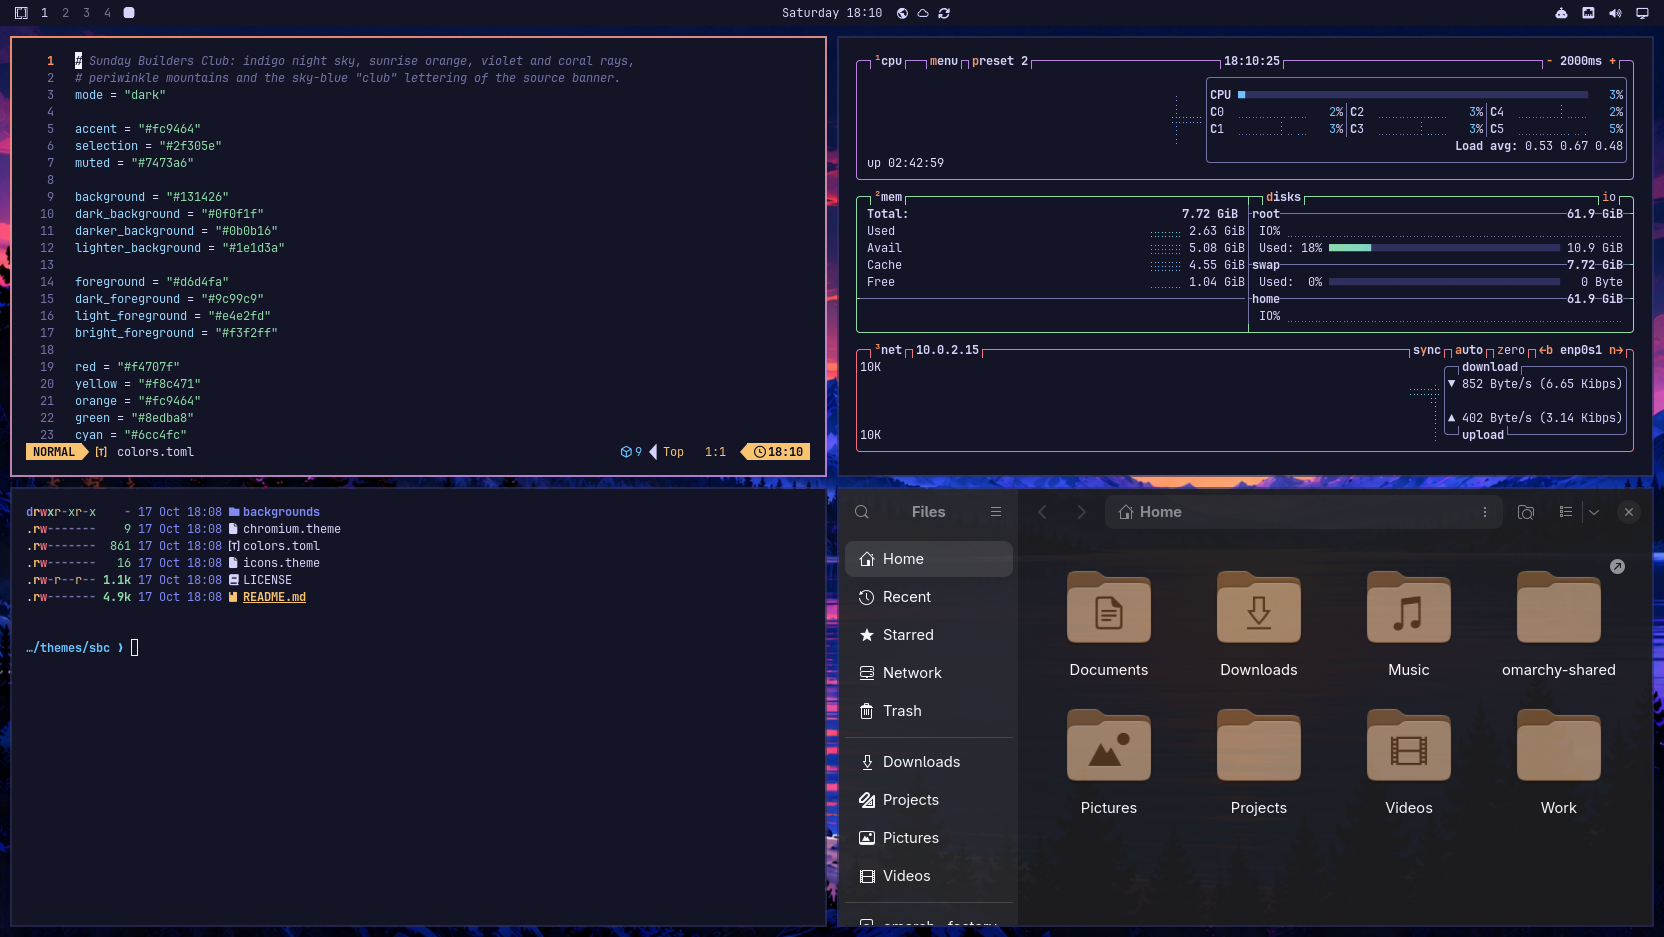
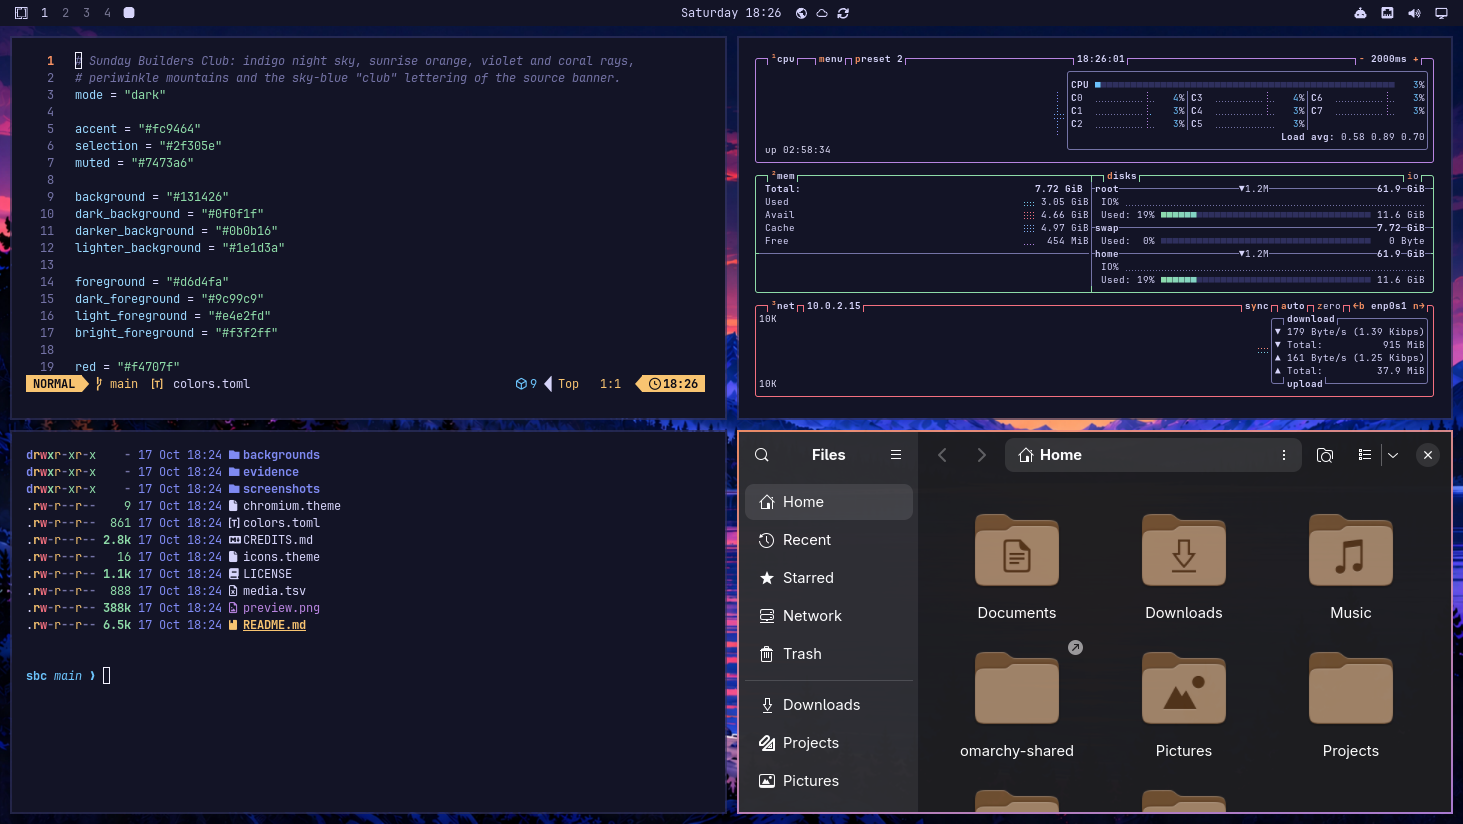
Retake screenshots with the sharpened wallpapers
Both captures come from the theme installed from this repository with
omarchy theme install; evidence/local-2.manifest records the implementation
files they and the following checks apply to.

Changed region(s): [[0.0, 0.0, 1.0, 1.0], [0.0, 0.8192, 0.0308, 0.8495]]

diff --git a/README.md b/README.md
@@ -19,7 +19,7 @@ sky-blue "club" lettering.
 
 ![SBC on Omarchy with Neovim, btop, a terminal and Files](preview.png)
 
-*SBC on Omarchy with Neovim, btop, a terminal and Files, 1664×937*
+*SBC on Omarchy with Neovim, btop, a terminal and Files, 1463×824*
 
 ## Install
 
@@ -72,9 +72,9 @@ name to pick the theme from a list instead.
 
 ## Screenshots
 
-![SBC desktop with the retro wallpaper and the About window](screenshots/desktop.png)
+![SBC desktop with the retro wallpaper and a fastfetch terminal](screenshots/desktop.png)
 
-*SBC desktop with the retro wallpaper and the About window, 1664×937*
+*SBC desktop with the retro wallpaper and a fastfetch terminal, 1463×824*
 
 ## Palette
 
